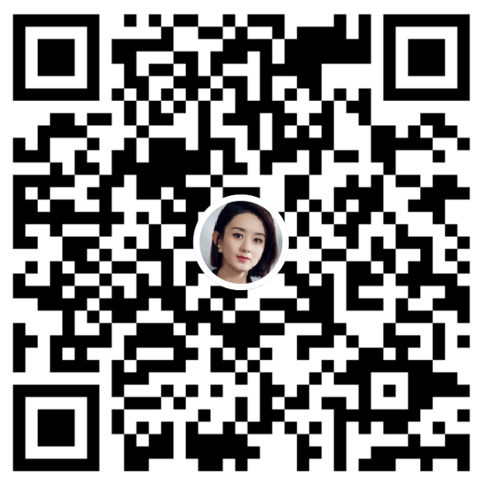
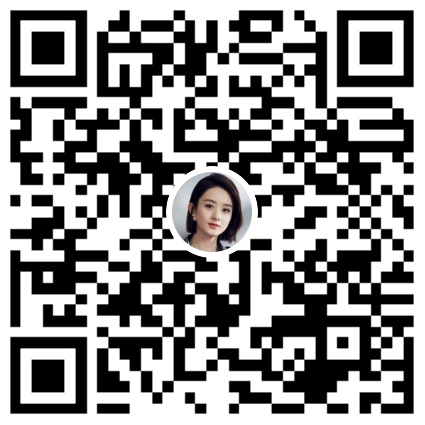
update QR

diff --git a/docs/index.html b/docs/index.html
@@ -50,7 +50,7 @@
 <div class="col-lg-12 text-center">
 <h2 class="section-heading">Mã Nạp</h2>
 
-<h2 class="section-heading"><img alt="" src="img/GeneralQRCode.jpg?b=1224993" /></h2>
+<h2 class="section-heading"><img alt="" src="img/GeneralQRCode.jpg?v=79922" /></h2>
 </div>
 </div>
 <!-- tinhnang Section -->
